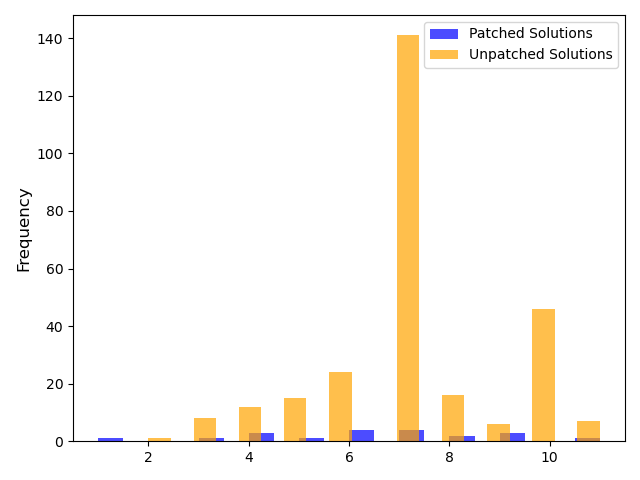
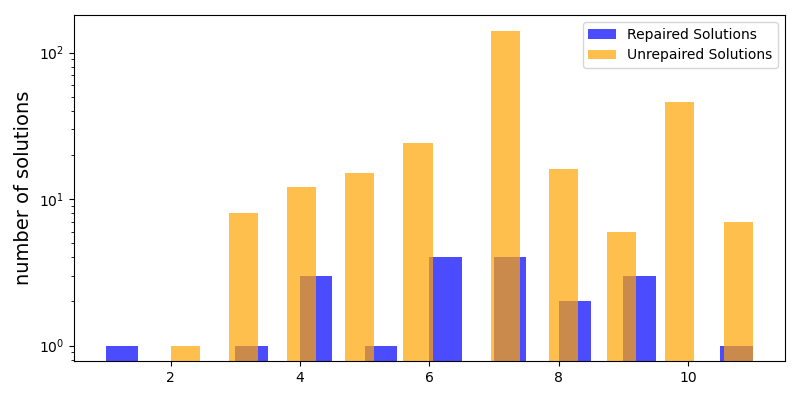
update discussion figures

diff --git a/nero/evaluation/figures.py b/nero/evaluation/figures.py
@@ -52,70 +52,6 @@ class Figures:
         venny4py(sets=sets)
         plt.show()
 
-    def histogram_rq3_num_failed_tests(self):
-        patched_programs = self.get_submission_patched()
-        unpatched_programs = self.get_submission_unpatched()
-        num_tests_patched = []
-        num_tests_unpatched = []
-
-        with open(self.failed_tests_json, 'r') as j:
-            d = json.load(j)
-        for submission, number in d.items():
-            if submission in patched_programs:
-                num_tests_patched.append(number / 2)
-            elif submission in unpatched_programs:
-                num_tests_unpatched.append(number / 2)
-
-        q3_patched = np.percentile(num_tests_patched, 75)
-        q3_unpatched = np.percentile(num_tests_unpatched, 75)
-        print(f"q3_patched: {q3_patched}")
-        print(f"q3_unpatched: {q3_unpatched}")
-
-        print(f"patched solutions - average: {statistics.mean(num_tests_patched)}")
-        print(f"patched solutions - test failure rate: {statistics.mean(num_tests_patched) / 60}")
-        print(f"unpatched solutions - average: {statistics.mean(num_tests_unpatched)}")
-        print(f"unpatched solutions - test failure rate: {statistics.mean(num_tests_unpatched) / 60}")
-
-        plt.hist(num_tests_patched, bins=20, alpha=0.7, label='Patched Solutions', color='blue')
-        plt.hist(num_tests_unpatched, bins=20, alpha=0.7, label='Unpatched Solutions', color='orange')
-
-        # plt.xlabel('Number of Failed Tests', fontsize=14)
-        plt.ylabel('Frequency', fontsize=12)
-        plt.legend(loc='upper right')
-        plt.tight_layout()
-        plt.show()
-
-    def histogram_rq3_buggy_methods(self):
-        patched_programs = self.get_submission_patched()
-        unpatched_programs = self.get_submission_unpatched()
-        num_methods_patched = []
-        num_methods_unpatched = []
-
-        with open(self.method_coverage_json, 'r') as j:
-            d = json.load(j)
-        for submission, methods in d.items():
-            if submission in patched_programs:
-                count_buggy_methods = 0
-                for method, tests in methods.items():
-                    if tests["num"] > 0:
-                        count_buggy_methods += 1
-                num_methods_patched.append(count_buggy_methods)
-            elif submission in unpatched_programs:
-                count_buggy_methods = 0
-                for method, tests in methods.items():
-                    if tests["num"] > 0:
-                        count_buggy_methods += 1
-                num_methods_unpatched.append(count_buggy_methods)
-
-        plt.hist(num_methods_patched, bins=20, alpha=0.7, label='Patched Solutions', color='blue')
-        plt.hist(num_methods_unpatched, bins=20, alpha=0.7, label='Unpatched Solutions', color='orange')
-
-        # plt.xlabel('Number of Buggy Methods', fontsize=14)
-        plt.ylabel('Frequency', fontsize=12)
-        plt.legend(loc='upper right')
-        plt.tight_layout()
-        plt.show()
-
     def get_dp(self, model):
         with open(self.results_json, 'r') as j:
             d = json.load(j)[model]
@@ -162,12 +98,81 @@ class Figures:
         random_samples = random.sample(unpatched_below_threshold, 10)
         print(f"Random samples: {random_samples}")
 
+    def histogram_rq3_buggy_methods(self):
+        patched_programs = self.get_submission_patched()
+        unpatched_programs = self.get_submission_unpatched()
+        num_methods_patched = []
+        num_methods_unpatched = []
+
+        with open(self.method_coverage_json, 'r') as j:
+            d = json.load(j)
+        for submission, methods in d.items():
+            if submission in patched_programs:
+                count_buggy_methods = 0
+                for method, tests in methods.items():
+                    if tests["num"] > 0:
+                        count_buggy_methods += 1
+                num_methods_patched.append(count_buggy_methods)
+            elif submission in unpatched_programs:
+                count_buggy_methods = 0
+                for method, tests in methods.items():
+                    if tests["num"] > 0:
+                        count_buggy_methods += 1
+                num_methods_unpatched.append(count_buggy_methods)
+
+        print(f"Max num of buggy methods - patched {max(num_methods_patched)}, unpatched {max(num_methods_unpatched)}")
+        print(f"Min num of buggy methods - patched {min(num_methods_patched)}, unpatched {min(num_methods_unpatched)}")
+
+        plt.figure(figsize=(8, 4))
+        plt.hist(num_methods_patched, bins=20, alpha=0.7, label='Repaired Solutions', color='blue')
+        plt.hist(num_methods_unpatched, bins=20, alpha=0.7, label='Unrepaired Solutions', color='orange')
+
+        plt.yscale("log")
+        plt.ylabel('number of solutions', fontsize=14)
+        plt.legend()
+        plt.tight_layout()
+        plt.show()
+
+    def histogram_rq3_num_failed_tests(self):
+        patched_programs = self.get_submission_patched()
+        unpatched_programs = self.get_submission_unpatched()
+        num_tests_patched = []
+        num_tests_unpatched = []
+
+        with open(self.failed_tests_json, 'r') as j:
+            d = json.load(j)
+        for submission, number in d.items():
+            if submission in patched_programs:
+                num_tests_patched.append(number / 2)
+            elif submission in unpatched_programs:
+                num_tests_unpatched.append(number / 2)
+
+        q3_patched = np.percentile(num_tests_patched, 75)
+        q3_unpatched = np.percentile(num_tests_unpatched, 75)
+        print(f"q3_patched: {q3_patched}")
+        print(f"q3_unpatched: {q3_unpatched}")
+
+        print(f"patched solutions - average: {statistics.mean(num_tests_patched)}")
+        print(f"patched solutions - test failure rate: {statistics.mean(num_tests_patched) / 60}")
+        print(f"unpatched solutions - average: {statistics.mean(num_tests_unpatched)}")
+        print(f"unpatched solutions - test failure rate: {statistics.mean(num_tests_unpatched) / 60}")
+
+        plt.figure(figsize=(8, 4))
+        plt.hist(num_tests_patched, bins=20, alpha=0.7, label='Repaired Solutions', color='blue')
+        plt.hist(num_tests_unpatched, bins=20, alpha=0.7, label='Unrepaired Solutions', color='orange')
+
+        plt.yscale("log")
+        plt.ylabel('number solutions', fontsize=14)
+        plt.legend()
+        plt.tight_layout()
+        plt.show()
+
 
 if __name__ == '__main__':
     f = Figures()
     # f.box_plot_rq1()
     # f.box_plot_rq2()
     # f.venn_diagram_rq2()
-    # f.histogram_rq3_num_failed_tests()
-    f.histogram_rq3_buggy_methods()
+    # f.histogram_rq3_buggy_methods()
+    f.histogram_rq3_num_failed_tests()
     # f.get_below_threshold_unpatched()

diff --git a/resource/prompts/test_generation/Prompt_template.md b/resource/prompts/test_generation/Prompt_template.md
@@ -1,0 +1,21 @@
+**[source code, signatures, documentaion]** The task is to generate a JUnit4 test suite for the given class.
+
+```
+public class Class01 {
+		...
+		/** Java Doc of the method */
+    public void method01() { ... }
+    ...
+}
+
+```
+
+**[usage examples]** Here is an example of how the methods of the class are called.
+
+```
+public class Class02 {
+		...
+}
+```
+
+Please emphasize on the following methods (try to cover as many cases as possible for these methods): *Class01.method01*, *Class01.method02*, ...
